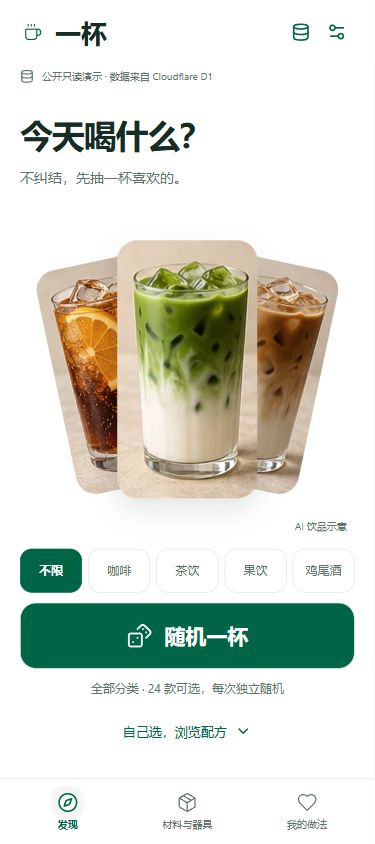
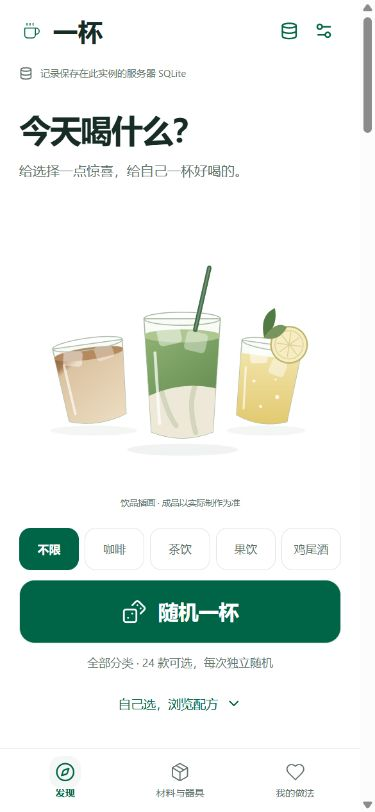
feat: promote random drink hero and define shared toolkit baseline

diff --git a/src/main.tsx b/src/main.tsx
@@ -4,8 +4,7 @@ import { ArrowDownToLine, ArrowLeft, ArrowRight, ArrowUpFromLine, Check, Clipboa
 import { categories, ingredients, ingredientName, recipes, type Category, type Recipe, type StockStatus } from './data';
 import { amountText, recipeDraft, pickRandom, missingIngredients, stepText, validateBackup, type PersonalVersion, type UserData } from './logic';
 import { Modal } from './components/Modal';
-import { useWorkspace } from './workspace';
-import {readBrowserBackup} from './browser-migration';
+import {useEdition} from './edition';
 import './styles.css';
 import './tool.css';
 import './iteration.css';
@@ -27,7 +26,7 @@ import './ui-v3.css';
 import './frame.css';
 import './random-intro.css';
 import {RandomCategoryFilter} from './components/RandomCategoryFilter';
-import {MobileRandomIntro} from './components/MobileRandomIntro';
+import {RandomIntro} from './components/RandomIntro';
 import {referenceTime} from './content';
 import {PersonalLibrary} from './components/PersonalLibrary';
 import {ServiceInfo} from './components/ServiceInfo';
@@ -45,7 +44,8 @@ function Brand(){return <><span className="brand-icon"><Coffee size={26} strokeW
 function App(){
   const [notice,setNotice]=useState('');const [wideScreen,setWideScreen]=useState(()=>matchMedia('(min-width: 801px)').matches);
   useEffect(()=>{const media=matchMedia('(min-width: 801px)');const change=()=>setWideScreen(media.matches);media.addEventListener('change',change);return()=>media.removeEventListener('change',change);},[]);
-  const {data,ready,sync,readOnly,storageLabel,persist,retrySave,resolveConflict}=useWorkspace(setNotice);
+  const edition=useEdition({notify:setNotice,onSettings:()=>setSettings(true),onExport:()=>exportBackup(),onImport:value=>{setImported(value);setSettings(false);}});
+  const {data,ready,sync,readOnly,storageLabel,persist,retrySave,resolveConflict}=edition.workspace;
   const catalog=recipes;const catalogRef=useRef<HTMLElement>(null);
   const [page,setPage]=useState<Page>('discover');
   const [category,setCategory]=useState<Category>('all');
@@ -91,7 +91,7 @@ function App(){
     const blob=new Blob([JSON.stringify(data,null,2)],{type:'application/json'});const url=URL.createObjectURL(blob);const link=document.createElement('a');link.href=url;link.download=`一杯-我的备份-${new Date().toISOString().slice(0,10)}.json`;link.click();setTimeout(()=>URL.revokeObjectURL(url),1000);setNotice('备份已导出，包含收藏、材料、备料计划和完整个人做法。');
   }
   async function loadBackup(file?:File){if(!file)return;try{if(file.size>5_000_000)throw Error('备份文件不能超过 5 MB。');setImported(validateBackup(JSON.parse(await file.text())));setSettings(false);}catch(e){setNotice(e instanceof Error?e.message:'无法读取备份文件。');}finally{if(fileRef.current)fileRef.current.value='';}}
-  function saveVersion(v:PersonalVersion){const next={...data,versions:[v,...data.versions.filter(item=>item.id!==v.id)]};if(persist(next)){setNotice('个人做法已更新，正在保存到服务器。原始配方保持独立。');return true;}return false;}
+  function saveVersion(v:PersonalVersion){const next={...data,versions:[v,...data.versions.filter(item=>item.id!==v.id)]};if(persist(next)){setNotice(`个人做法已更新，保存位置：${storageLabel}。原始配方保持独立。`);return true;}return false;}
   function addToPlan(item:PersonalVersion){if(data.plan.length>=30){setNotice('备料清单最多保存 30 杯，请先移除已完成的饮品。');return;}if(persist({...data,plan:[...data.plan,{...item,id:crypto.randomUUID()}]}))setNotice('已加入备料清单，可合并查看材料与调整份数。');}
   function deleteVersion(id:string){if(window.confirm('删除这份个人做法？此操作无法撤销。'))persist({...data,versions:data.versions.filter(v=>v.id!==id)});}
   const navItems=[{id:'discover' as const,label:'发现',Icon:Compass},{id:'stock' as const,label:'材料与器具',Icon:Package},{id:'favorites' as const,label:'我的做法',Icon:Heart}];
@@ -100,16 +100,16 @@ function App(){
     <header className="site-header"><div className="header-inner">
       <button className="brand" onClick={()=>navigate('discover')} aria-label="一杯首页"><Brand/></button>
       <nav className="desktop-nav" aria-label="主导航">{navItems.map(({id,label,Icon})=><button key={id} className={page===id?'active':''} aria-current={page===id?'page':undefined} onClick={()=>navigate(id)}><Icon size={17}/>{label}{id==='favorites'&&data.favorites.length>0&&<span className="nav-count">{data.favorites.length}</span>}</button>)}</nav>
-      <div className="header-tools"><button className="icon-button header-prep" aria-label="打开备料清单" onClick={()=>setPlanOpen(true)}><ClipboardList size={20}/>{data.plan.length>0&&<span>{data.plan.length}</span>}</button><button className="icon-button" aria-label="服务器数据与备份" onClick={()=>setSettings(true)}><Database size={19}/></button><button className="icon-button" aria-label="外观与数据设置" onClick={()=>setSettings(true)}><Settings2 size={20}/></button></div>
+      <div className="header-tools"><button className="icon-button header-prep" aria-label="打开备料清单" onClick={()=>setPlanOpen(true)}><ClipboardList size={20}/>{data.plan.length>0&&<span>{data.plan.length}</span>}</button>{edition.header}<button className="icon-button" aria-label="外观与数据设置" onClick={()=>setSettings(true)}><Settings2 size={20}/></button></div>
     </div></header>
+    {edition.banners}
     <div className="local-status" role="status"><Database size={14}/><span>{sync.message}</span>{sync.state==='saving'&&<small>请等待保存完成</small>}</div>
     {['error','conflict'].includes(sync.state)&&<div className="sync-warning" role="alert"><span>{sync.message}</span><button onClick={exportBackup}>导出当前页面记录</button>{sync.state==='conflict'?<><button onClick={()=>{if(window.confirm('读取服务器数据库会放弃当前页面未保存的修改，请先导出备份，确定继续吗？'))resolveConflict('remote').catch(e=>setNotice(e.message));}}>读取服务器数据库</button><button onClick={()=>{if(window.confirm('以当前页面替换服务器数据库记录？建议先导出双方备份。'))resolveConflict('local').catch(e=>setNotice(e.message));}}>保留当前页面版本</button></>:<button onClick={retrySave}>{ready?'重试保存':'重试读取'}</button>}</div>}
     {readOnly&&<aside className="demo-mode-note">公开只读演示：可浏览配方、调整用量并制作。保存个人配方、库存和合集请<a href="https://github.com/Murphy-404/OneCup#readme" target="_blank" rel="noreferrer">部署自己的实例 ↗</a>。</aside>}
     <main className="main-content" key={page}>
       {page==='discover'&&<>
-        <MobileRandomIntro count={filtered.length} category={category} onCategoryChange={setCategory} onDraw={()=>drawRandom()} onBrowse={()=>{catalogRef.current?.scrollIntoView({block:'start',behavior:matchMedia('(prefers-reduced-motion: reduce)').matches?'instant':'smooth'});catalogRef.current?.focus({preventScroll:true});}}/>
+        <RandomIntro count={filtered.length} category={category} onCategoryChange={setCategory} onDraw={()=>drawRandom()} onBrowse={()=>{catalogRef.current?.scrollIntoView({block:'start',behavior:matchMedia('(prefers-reduced-motion: reduce)').matches?'instant':'smooth'});catalogRef.current?.focus({preventScroll:true});}}/>
         {readOnly&&<details className="mobile-demo-note"><summary>公开演示 · 关于保存个人数据</summary><p>可浏览配方、调整用量并制作。保存个人配方、库存和合集请<a href="https://github.com/Murphy-404/OneCup#readme" target="_blank" rel="noreferrer">部署自己的实例 ↗</a>。</p></details>}
-        <section className="utility-intro"><div><h1>今天，这杯自己做。</h1><p>找配方，也找到适合手边材料的做法。</p></div><div className="intro-side"><button className="text-button random-entry" onClick={()=>drawRandom()}><Dices size={18}/>随机一杯</button><button className="prep-trigger" onClick={()=>setPlanOpen(true)}><ClipboardList size={17}/>备料清单{data.plan.length>0&&<span>{data.plan.length}</span>}</button></div></section>
       </>}
       {page==='favorites'&&<section className="page-intro"><p className="eyebrow">YOUR LITTLE COLLECTION</p><h1>喜欢的，留给下一杯。</h1><p className="intro-copy">收藏心动的配方，也留住你亲手调出的味道。</p><div className="segmented"><button className={favoriteView==='recipes'?'selected':''} onClick={()=>setFavoriteView('recipes')}>收藏配方 <span>{data.favorites.length}</span></button><button className={favoriteView==='versions'?'selected':''} onClick={()=>setFavoriteView('versions')}>我的做法 <span>{data.versions.length}</span></button><button className={favoriteView==='library'?'selected':''} onClick={()=>setFavoriteView('library')}>自建与合集 <span>{data.customRecipes.length}</span></button></div></section>}
       {(page==='discover'||page==='favorites'&&favoriteView==='recipes')&&<>
@@ -132,15 +132,16 @@ function App(){
         {!ingredients.some(i=>(stockStatus==='all'||(data.stock[i.id]??'unknown')===stockStatus)&&(stockGroup==='全部'||i.group===stockGroup)&&i.name.includes(stockQuery.trim()))&&<Empty icon={<Search size={26}/>} title="没有找到这种材料" description="试着缩短关键词，或切换材料分类。"/>}
         <p className="stock-footnote">材料库只记录种类，不自动扣减数量。水与冰也需要明确登记；咖啡豆不等于已备好的浓缩咖啡液。</p></>}
       </>}
-      <footer className="site-footer"><div className="footer-brand"><Coffee size={18} strokeWidth={1.3}/><span>一杯</span><span className="small-muted">日常饮品制作工具</span></div><button className="footer-data" onClick={()=>setSettings(true)}>{storageLabel} · 数据与备份<ArrowRight size={13}/></button><a className="footer-data" href="https://github.com/Murphy-404/OneCup" target="_blank" rel="noreferrer">OneCup by Murphy-404 · 个人非商业使用 · 来源</a></footer>
+      <footer className="site-footer"><div className="footer-brand"><Coffee size={18} strokeWidth={1.3}/><span>一杯</span><span className="small-muted">日常饮品制作工具</span></div><button className="footer-data" onClick={()=>setSettings(true)}>{storageLabel} · 数据与备份<ArrowRight size={13}/></button>{edition.footer}</footer>
     </main>
     <nav className="mobile-nav" aria-label="手机主导航">{navItems.map(({id,label,Icon})=><button key={id} aria-current={page===id?'page':undefined} className={page===id?'active':''} onClick={()=>navigate(id)}><Icon size={21} strokeWidth={page===id?1.8:1.4}/><span>{label}</span></button>)}</nav>
     {detail&&<RecipeDialog key={`${detail.recipe.id}-${detail.version?.id??'original'}`} {...detail} readOnly={readOnly} equipment={data.equipment} coffeeRecords={data.coffeeRecords} stock={data.stock} stockFilter={stockFilter} saved={data.favorites.includes(detail.recipe.id)} onFavorite={()=>toggleFavorite(detail.recipe.id)} onPlan={addToPlan} onSave={saveVersion} onClose={()=>setDetail(null)} notify={setNotice}/>}
     {coffeeOpen&&<CoffeeLab data={data} persist={persist} onClose={()=>setCoffeeOpen(false)} notify={setNotice}/>}
     {planOpen&&<PrepPlan data={data} onChange={persist} onClose={()=>setPlanOpen(false)} onOpen={item=>{setPlanOpen(false);setDetail({recipe:item.snapshot,version:item});}} notify={setNotice}/>}
     {randomOpen&&<Modal onClose={()=>setRandomOpen(false)} label="随机一杯" className="random-modal"><div className="dialog-top"><span className="eyebrow"><Dices size={17}/> A LITTLE SURPRISE</span><button className="icon-button" aria-label="关闭随机结果" onClick={()=>setRandomOpen(false)}><X size={21}/></button></div><RandomCategoryFilter value={category} label="随机结果分类" onChange={next=>{setCategory(next);drawRandom(next);}}/>{randomRecipe?<><h2 className="random-title">今天的灵感，是这一杯。</h2><div className="random-reveal" key={`${randomRecipe.id}-${randomReveal}`}><Photo recipe={randomRecipe}/></div><div className="random-body"><p className="card-en">{randomRecipe.en}</p><h3>{randomRecipe.name}</h3><p>{randomRecipe.description}</p><div className="random-tags"><span><Clock3 size={14}/>{randomRecipe.minutes} 分钟调配</span>{randomRecipe.alcohol&&<span className="alcohol-tag">含酒精</span>}<span>{stockFilter?'必需材料种类齐全':'未限制准备条件 · 详见配方'}</span></div><p className="round-note">{randomNote}</p><div className="random-actions"><button className="secondary-button" onClick={()=>drawRandom()}><Dices size={17}/>再随机一次</button><button className="primary-button" onClick={()=>{setRandomOpen(false);setDetail({recipe:randomRecipe});}}>看看做法<ArrowRight size={17}/></button></div></div></>:<Empty icon={<CupSoda size={30}/>} title="暂时没有可抽的饮品" description={randomNote}><button className="primary-button" onClick={()=>{clearFilters();setRandomOpen(false);}}>清除所有筛选</button><button className="text-button" onClick={()=>setRandomOpen(false)}>返回调整筛选</button></Empty>}</Modal>}
-    {settings&&<Modal label="外观与数据" onClose={()=>setSettings(false)} className="settings-modal"><div className="dialog-top"><h2>外观与数据</h2><button className="icon-button" aria-label="关闭设置" onClick={()=>setSettings(false)}><X size={21}/></button></div><div className="settings-content"><p className="eyebrow"><Palette size={15}/> 选择界面配色</p><div className="theme-list">{themes.map(t=><button key={t.id} className={data.theme===t.id?'selected':''} onClick={()=>persist({...data,theme:t.id})}><span className="theme-swatch" style={{background:t.bg,borderColor:t.color}}><span style={{background:t.color}}/></span><span>{t.name}<small>{t.note}</small></span>{data.theme===t.id&&<Check size={18}/>}</button>)}</div><div className="data-settings"><h3>数据与备份</h3><p>无需登录。此实例的收藏、材料、做法、备料和咖啡记录保存在{storageLabel}。自托管 SQLite 使用 Docker 数据卷，Cloudflare 使用 D1。访问同一实例的设备共用一份记录。</p><p role="status">{sync.message}</p><div className="backup-buttons"><button className="secondary-button" onClick={exportBackup}><ArrowDownToLine size={16}/>导出备份</button><button disabled={readOnly} className="secondary-button" onClick={()=>fileRef.current?.click()}><ArrowUpFromLine size={16}/>恢复备份</button><button disabled={readOnly} className="secondary-button" onClick={()=>{readBrowserBackup().then(value=>{setImported(value);setSettings(false);}).catch(e=>setNotice(e.message));}}>导入旧浏览器记录</button></div></div><ServiceInfo storageLabel={storageLabel} readOnly={readOnly}/><p className="content-note">关于内容：24 款配方为家庭参考版本，尚待实际试做。图片为 AI 生成的呈现示意；制作时间不含茶汤准备与冷却。鸡尾酒含酒精。</p></div></Modal>}
-    {imported&&<Modal label="确认恢复备份" onClose={()=>setImported(null)} className="settings-modal"><div className="dialog-top"><h2>恢复这份日常灵感？</h2><button className="icon-button" aria-label="取消恢复" onClick={()=>setImported(null)}><X size={20}/></button></div><div className="settings-content"><p>文件校验已通过，包含 {imported.favorites.length} 个收藏、{Object.keys(imported.stock).length} 条材料状态和 {imported.versions.length} 份个人做法、{imported.plan.length} 杯备料计划、{imported.customRecipes.length} 份自建配方与 {imported.collections.length} 个合集。</p><p>恢复将替换此实例的服务器记录，其他连接设备也会读取恢复后的版本。建议先导出当前数据。</p><div className="backup-buttons"><button className="secondary-button" onClick={exportBackup}>先备份当前数据</button><button className="primary-button" onClick={()=>{if(persist(imported)){setImported(null);setNotice('已载入备份，正在写入服务器数据库。');}}}>确认替换并恢复</button></div></div></Modal>}
+    {settings&&<Modal label="外观与数据" onClose={()=>setSettings(false)} className="settings-modal"><div className="dialog-top"><h2>外观与数据</h2><button className="icon-button" aria-label="关闭设置" onClick={()=>setSettings(false)}><X size={21}/></button></div><div className="settings-content"><p className="eyebrow"><Palette size={15}/> 选择界面配色</p><div className="theme-list">{themes.map(t=><button key={t.id} className={data.theme===t.id?'selected':''} onClick={()=>persist({...data,theme:t.id})}><span className="theme-swatch" style={{background:t.bg,borderColor:t.color}}><span style={{background:t.color}}/></span><span>{t.name}<small>{t.note}</small></span>{data.theme===t.id&&<Check size={18}/>}</button>)}</div><div className="data-settings"><h3>数据与备份</h3>{edition.storageHelp}<div className="backup-buttons"><button className="secondary-button" onClick={exportBackup}><ArrowDownToLine size={16}/>导出备份</button><button disabled={readOnly} className="secondary-button" onClick={()=>fileRef.current?.click()}><ArrowUpFromLine size={16}/>恢复备份</button>{edition.migrationButton}</div></div><ServiceInfo storageLabel={storageLabel} readOnly={readOnly}/><p className="content-note">关于内容：24 款配方为家庭参考版本，尚待实际试做。图片为 AI 生成的呈现示意；制作时间不含茶汤准备与冷却。鸡尾酒含酒精。</p></div></Modal>}
+    {edition.dialogs}
+    {imported&&<Modal label="确认恢复备份" onClose={()=>setImported(null)} className="settings-modal"><div className="dialog-top"><h2>恢复这份日常灵感？</h2><button className="icon-button" aria-label="取消恢复" onClick={()=>setImported(null)}><X size={20}/></button></div><div className="settings-content"><p>文件校验已通过，包含 {imported.favorites.length} 个收藏、{Object.keys(imported.stock).length} 条材料状态和 {imported.versions.length} 份个人做法、{imported.plan.length} 杯备料计划、{imported.customRecipes.length} 份自建配方与 {imported.collections.length} 个合集。</p><p>{edition.restoreWarning}建议先导出当前数据。</p><div className="backup-buttons"><button className="secondary-button" onClick={exportBackup}>先备份当前数据</button><button className="primary-button" onClick={()=>{if(persist(imported)){setImported(null);setNotice(`已载入备份，保存位置：${storageLabel}。`);}}}>确认替换并恢复</button></div></div></Modal>}
     <input ref={fileRef} hidden type="file" accept=".json,application/json" onChange={e=>loadBackup(e.target.files?.[0])}/>
     <div ref={toastRef} popover="manual" className={`toast ${notice?'visible':''}`} role="status" aria-live="polite">{notice&&<><Check size={17}/>{notice}</>}</div>
   </>;

diff --git a/src/random-intro.css b/src/random-intro.css
@@ -1,18 +1,28 @@
-/* On phones, choosing a drink is the first task; the catalogue follows below. */
-.mobile-random-intro,.mobile-demo-note{display:none}
+/* One shared first task at every width: choose a category and draw a drink. */
+.mobile-demo-note{display:none}
+.mobile-random-intro{display:grid;grid-template-columns:minmax(340px,1fr) minmax(0,1.1fr);grid-template-rows:auto auto;align-content:center;gap:28px 48px;min-height:510px;padding:40px 32px 48px;margin:0 0 32px;border-bottom:1px solid var(--line);box-sizing:border-box}
+.mobile-random-heading{align-self:end}.mobile-random-heading h1{font-size:clamp(42px,4.2vw,64px);font-weight:700;letter-spacing:-.05em;line-height:1.2;margin:0;color:var(--ink)}
+.mobile-random-heading p{font-size:16px;line-height:1.8;color:var(--muted);margin:16px 0 0}
+.mobile-random-visual{position:relative;grid-column:2;grid-row:1/3;align-self:center;min-width:0;height:400px}
+.mobile-random-visual>img{position:absolute;inset:0;display:block;width:100%;height:100%;object-fit:contain}
+.mobile-random-visual>span{position:absolute;bottom:0;left:0;right:0;text-align:center;font-size:10px;color:var(--muted)}
+.mobile-random-actions{display:grid;gap:12px;max-width:440px;text-align:center}
+.mobile-random-draw{width:100%;min-height:72px;border-radius:16px;font-size:23px;font-weight:650;gap:12px;justify-content:center}
+.mobile-random-draw svg{transition:transform .2s ease}.mobile-random-draw:active svg{transform:rotate(24deg)}
+.mobile-random-hint{font-size:12px;line-height:1.7;color:var(--muted);margin:0}
+.mobile-random-browse{display:flex;align-items:center;justify-content:center;gap:8px;min-height:44px;background:none;border:0;color:var(--primary);font:inherit;font-size:13px}
+.mobile-random-browse:focus-visible,.mobile-random-draw:focus-visible{outline:3px solid var(--primary);outline-offset:4px}
+.catalog-controls{scroll-margin-top:24px}.catalog-controls:focus{outline:none}
+@media(min-width:801px) and (max-width:1100px){.mobile-random-intro{padding-inline:0;gap:24px;grid-template-columns:minmax(320px,1fr) minmax(0,1fr);min-height:470px}.mobile-random-visual{height:340px}}
 @media(max-width:800px){
  .utility-intro{display:none}
  .demo-mode-note{display:none}
- .mobile-random-intro{display:grid;grid-template-rows:auto minmax(96px,1fr) auto;gap:20px;min-height:calc(100svh - 172px - env(safe-area-inset-top,0px) - env(safe-area-inset-bottom,0px));padding:12px 0 20px;margin-bottom:28px;box-sizing:border-box}
+ .mobile-random-intro{grid-template-columns:minmax(0,1fr);grid-template-rows:auto minmax(96px,1fr) auto;gap:20px;min-height:calc(100svh - 172px - env(safe-area-inset-top,0px) - env(safe-area-inset-bottom,0px));padding:12px 0 20px;margin-bottom:28px;border-bottom:0;box-sizing:border-box}
  .mobile-random-heading h1{font-size:clamp(30px,8.5vw,40px);font-weight:700;letter-spacing:-.04em;line-height:1.25;margin:0;color:var(--ink)}
  .mobile-random-heading p{font-size:14px;line-height:1.8;margin:10px 0 0;color:var(--muted)}
- .mobile-random-visual{position:relative;min-height:96px;margin:0 8px;isolation:isolate}
- .random-drink{position:absolute;left:50%;top:50%;object-fit:cover;border-radius:20px;height:min(100%,258px);width:44%;max-width:164px;background:var(--photo)}
- .random-drink-left{transform:translate(-112%,-48%) rotate(-12deg);height:min(86%,228px);width:37%;filter:saturate(.88)}
- .random-drink-right{transform:translate(12%,-48%) rotate(12deg);height:min(86%,228px);width:37%;filter:saturate(.88)}
- .random-drink-center{transform:translate(-50%,-50%);box-shadow:0 12px 28px #183a2820}
- .mobile-random-visual>span{position:absolute;right:0;bottom:-4px;font-size:10px;color:var(--muted)}
- .mobile-random-actions{display:grid;gap:10px;text-align:center}
+ .mobile-random-visual{grid-column:auto;grid-row:auto;height:100%;min-height:96px;margin:0;isolation:isolate}
+ .mobile-random-visual>span{bottom:0;font-size:9px}
+ .mobile-random-actions{display:grid;gap:10px;text-align:center;max-width:none}
  .mobile-random-draw{width:100%;min-height:66px;border-radius:16px;font-size:21px;font-weight:650;gap:12px;justify-content:center}
  .mobile-random-draw svg{transition:transform .2s ease}.mobile-random-draw:active svg{transform:rotate(24deg)}
  .mobile-random-hint{font-size:12px;line-height:1.7;color:var(--muted);margin:0}

diff --git a/src/components/RandomIntro.tsx b/src/components/RandomIntro.tsx
@@ -2,14 +2,12 @@ import {ChevronDown,Dices} from 'lucide-react';
 import {categories,type Category} from '../data';
 import {RandomCategoryFilter} from './RandomCategoryFilter';
 
-export function MobileRandomIntro({count,category,onCategoryChange,onDraw,onBrowse}:{count:number;category:Category;onCategoryChange:(category:Category)=>void;onDraw:()=>void;onBrowse:()=>void}){
- return <section className="mobile-random-intro" aria-labelledby="mobile-random-title">
-  <div className="mobile-random-heading"><h1 id="mobile-random-title">今天喝什么？</h1><p>不纠结，先抽一杯喜欢的。</p></div>
+export function RandomIntro({count,category,onCategoryChange,onDraw,onBrowse}:{count:number;category:Category;onCategoryChange:(category:Category)=>void;onDraw:()=>void;onBrowse:()=>void}){
+ return <section className="mobile-random-intro" aria-labelledby="random-intro-title">
+  <div className="mobile-random-heading"><h1 id="random-intro-title">今天喝什么？</h1><p>给选择一点惊喜，给自己一杯好喝的。</p></div>
   <div className="mobile-random-visual" aria-hidden="true">
-   <img className="random-drink random-drink-left" src="/images/recipes/espresso-tonic.webp" alt="" width="240" height="320"/>
-   <img className="random-drink random-drink-right" src="/images/recipes/oat-latte.webp" alt="" width="240" height="320"/>
-   <img className="random-drink random-drink-center" src="/images/recipes/matcha.webp" alt="" width="240" height="320"/>
-   <span>AI 饮品示意</span>
+   <img src="/images/random-drinks.svg" alt="" width="640" height="480" fetchPriority="high"/>
+   <span>饮品插画 · 成品以实际制作为准</span>
   </div>
   <div className="mobile-random-actions">
    <RandomCategoryFilter value={category} onChange={onCategoryChange}/>

diff --git a/src/edition.tsx b/src/edition.tsx
@@ -1,0 +1,16 @@
+import {Database} from 'lucide-react';
+import {useWorkspace} from './workspace';
+import {readBrowserBackup} from './browser-migration';
+import type {UserData} from './logic';
+
+export function useEdition({notify,onSettings,onImport}:{notify:(message:string)=>void;onSettings:()=>void;onExport:()=>void;onImport:(data:UserData)=>void}){
+ const workspace=useWorkspace(notify);
+ return {workspace,
+  header:<button className="icon-button" aria-label="服务器数据与备份" onClick={onSettings}><Database size={19}/></button>,
+  banners:null,dialogs:null,
+  footer:<a className="footer-data" href="https://github.com/Murphy-404/OneCup" target="_blank" rel="noreferrer">OneCup by Murphy-404 · 个人非商业使用 · 来源</a>,
+  storageHelp:<><p>无需登录。收藏、材料、配方、合集和制作记录保存在{workspace.storageLabel}。访问同一实例的设备共用一份记录。</p><p role="status">{workspace.sync.message}</p></>,
+  migrationButton:<button disabled={workspace.readOnly} className="secondary-button" onClick={()=>{readBrowserBackup().then(onImport).catch(e=>notify(e.message));}}>导入旧浏览器记录</button>,
+  restoreWarning:'恢复将替换此实例的服务器记录，其他连接设备也会读取恢复后的版本。',
+ };
+}

diff --git a/docs/product/PRD.md b/docs/product/PRD.md
@@ -1,9 +1,13 @@
 # 一杯 OneCup OSS：开源工具版 PRD
 
-版本：v1.2（无登录、服务器持久化、自建配方与私人合集）
-日期：2026-11-01
+版本：v1.3（无登录、服务器持久化、自建配方与私人合集）
+日期：2026-11-02
 状态：v0.3 已实现 P0 主要代码，自建配方与私人合集已接入；真实设备与实际试做待人工验收。
 关联：[路线图](ROADMAP.md)、[部署指南](../guides/DEPLOYMENT.md)、[验证记录](../testing/VALIDATION.md)。
+
+## 共同工具基线
+
+手机与桌面首页均以“随机一杯”为首要操作，快捷分类、独立随机、材料器具、替代自制、咖啡参数、自建配方、私人合集与制作流程保持同一基线。首页使用透明背景矢量插画，配方列表位于随机主区之后。账号和社交扩展不改变这些共同工具能力；持久化后端和访问权限按部署版本适配。共同文件清单见仓库根目录 shared-toolkit.json。
 
 ## 1. 定位与目标
 

diff --git a/README.md b/README.md
@@ -51,6 +51,7 @@ npm start
 
 ## 当前功能
 
+- 手机和桌面均以“随机一杯”为首屏重点，首页使用透明背景饮品插画。
 - 24 款家庭参考配方，分类、搜索、分类快捷随机（每次独立，允许重复）、材料与器具登记。
 - 有条件的替代与自制、逐项撤销、0.5～20 份用量换算、分步制作与计时。
 - 收藏与个人做法完整快照、多杯备料和同规格基底合批。
@@ -85,6 +86,8 @@ npm run audit:content
 GitHub Actions 在 Windows/Linux 运行构建和测试，并实际构建 Docker、写入记录、重建容器、验证数据保留和 SQLite 恢复。具体用例与人工验证边界见 [验证记录](docs/testing/VALIDATION.md)。
 
 [贡献指南](CONTRIBUTING.md) · [安全说明](SECURITY.md) · [第三方许可](THIRD_PARTY_NOTICES.md) · [素材说明](docs/reference/ASSETS.md)
+
+![桌面随机首页](docs/images/home-desktop.png)
 
 ![无登录版手机首页](docs/images/home-mobile.png)
 

diff --git a/docs/reference/ASSETS.md b/docs/reference/ASSETS.md
@@ -1,5 +1,7 @@
 # 图片、配方与素材说明
 
+首页的 `public/images/random-drinks.svg` 是本项目绘制的透明背景矢量插画，不是饮品摄影或试做证明；随项目个人非商业署名许可提供。其余饮品图片说明如下。
+
 `public/images/` 中的饮品图片由本项目制作过程中通过 AI 图像工具生成，包含目录图集、单饮品示意和部分容器变体。它们不是用户上传、商品摄影、第三方图库下载或真实试做证明。
 
 AI 输出不保证有可主张的排他版权。本项目不声称图片中存在的第三方权利已转让给使用者；许可仅在权利人实际可授权的权益范围内适用。使用时保留 AI 示意及来源标记，不以图片证明配方经过实测或宣传确定的成品效果。
